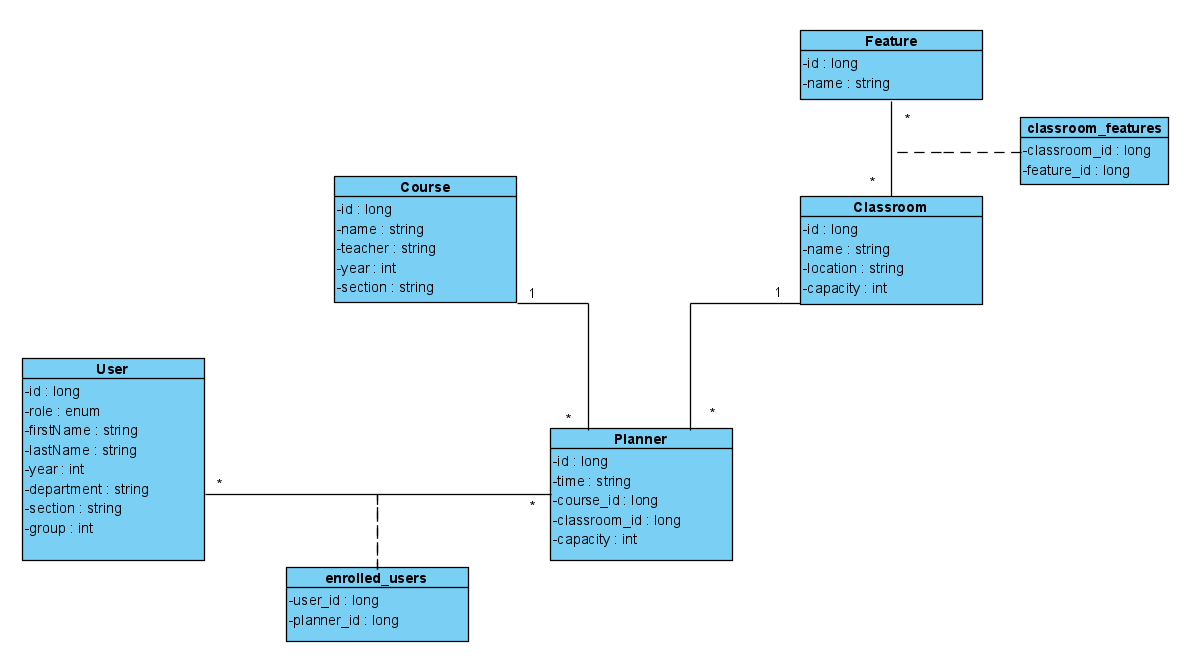
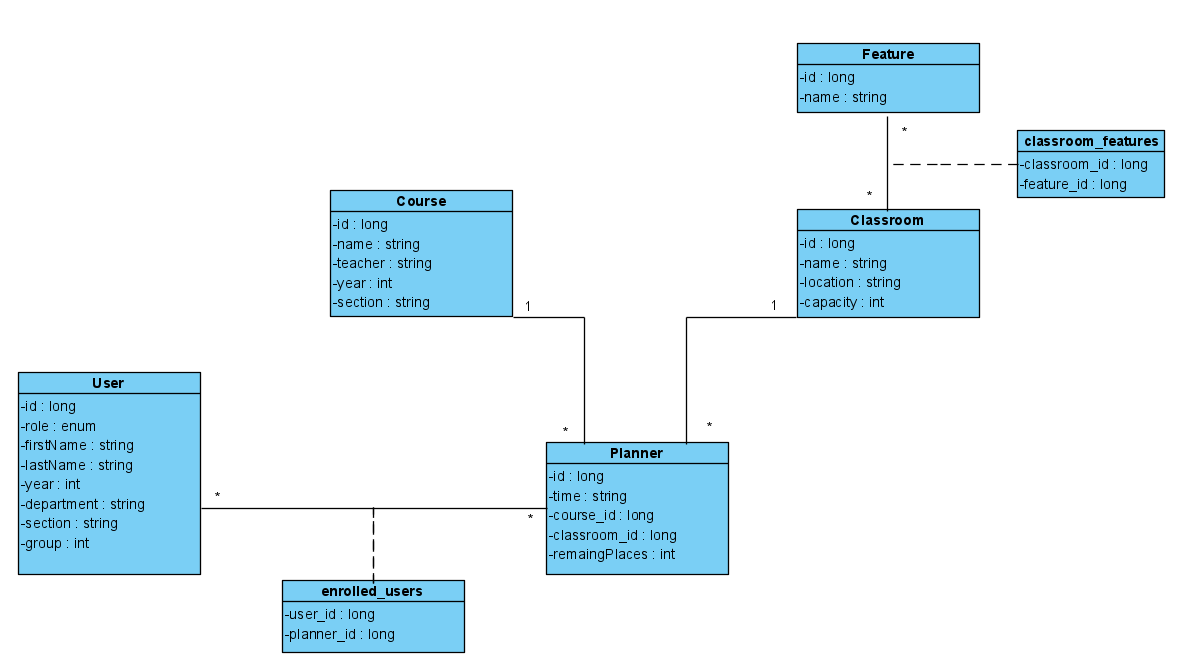
changed-planner-field

Changed region(s): [[0.0, 0.2406, 0.6401, 0.9925], [0.6706, 0.0301, 1.0, 0.3008], [0.5792, 0.2707, 0.8535, 0.4812]]

diff --git a/src/main/java/com/example/checkin/planner/PlannerDTO.java b/src/main/java/com/example/checkin/planner/PlannerDTO.java
@@ -14,18 +14,18 @@ public class PlannerDTO {
     private Long courseId;
     private Long classroomId;
     private Set<Long> enrolledUsers = new HashSet<>();
-    private Integer capacity;
+    private Integer remainingPlaces;
 
     public PlannerDTO() {
     }
 
-    public PlannerDTO(Long id, String time, Long courseId, Long classroomId, Set<Long> enrolledUsers, Integer capacity) {
+    public PlannerDTO(Long id, String time, Long courseId, Long classroomId, Set<Long> enrolledUsers, Integer remainingPlaces) {
         this.id = id;
         this.time = time;
         this.courseId = courseId;
         this.classroomId = classroomId;
         this.enrolledUsers = enrolledUsers;
-        this.capacity = capacity;
+        this.remainingPlaces = remainingPlaces;
     }
 
     public Long getId() {
@@ -68,12 +68,12 @@ public class PlannerDTO {
         this.enrolledUsers = enrolledUsers;
     }
 
-    public Integer getCapacity() {
-        return capacity;
+    public Integer getRemainingPlaces() {
+        return remainingPlaces;
     }
 
-    public void setCapacity(Integer capacity) {
-        this.capacity = capacity;
+    public void setRemainingPlaces(Integer remainingPlaces) {
+        this.remainingPlaces = remainingPlaces;
     }
 
     @Override
@@ -84,7 +84,7 @@ public class PlannerDTO {
                 ", courseId=" + courseId +
                 ", classroomId=" + classroomId +
                 ", enrolledUsers=" + enrolledUsers +
-                ", capacity=" + capacity +
+                ", remainingPlaces=" + remainingPlaces +
                 '}';
     }
 }

diff --git a/src/main/java/com/example/checkin/planner/PlannerService.java b/src/main/java/com/example/checkin/planner/PlannerService.java
@@ -38,10 +38,12 @@ public class PlannerService {
                 () -> new IllegalStateException("User with id: " + userId + " not found!")
         );
         if ((user.getRole().equals(UserRole.STUDENT) || user.getRole().equals(UserRole.TEACHER) &&
-                planner.getCapacity()>0)){
-            planner.assignUser(user);
-            planner.setCapacity(planner.getCapacity()-1);
-            plannerRepository.save(planner);
+                planner.getRemainingPlaces()>0)){
+            if (!(planner.getEnrolledUsers().contains(user))){
+                planner.assignUser(user);
+                planner.setRemainingPlaces(planner.getRemainingPlaces()-1);
+                plannerRepository.save(planner);
+            }
         }
         else throw new IllegalStateException("Only students and teachers are allowed to enroll");
     }
@@ -53,7 +55,7 @@ public class PlannerService {
         plannerDto.setCourseId(planner.getCourse().getId());
         plannerDto.setClassroomId(planner.getClassroom().getId());
         plannerDto.setEnrolledUsers(getUserIds(planner.getEnrolledUsers()));
-        plannerDto.setCapacity(planner.getCapacity());
+        plannerDto.setRemainingPlaces(planner.getRemainingPlaces());
         return plannerDto;
     }
 

diff --git a/src/main/java/com/example/checkin/planner/Planner.java b/src/main/java/com/example/checkin/planner/Planner.java
@@ -39,7 +39,7 @@ public class Planner {
     )
     private Set<User> enrolledUsers = new HashSet<>();
 
-    private Integer capacity;
+    private Integer remainingPlaces;
 
     public Planner() {
     }
@@ -48,7 +48,7 @@ public class Planner {
         this.time = time;
         this.course = course;
         this.classroom = classroom;
-        this.capacity = classroom.getCapacity();
+        this.remainingPlaces = classroom.getCapacity();
     }
 
     public Long getId() {
@@ -99,10 +99,12 @@ public class Planner {
         return enrolledUsers;
     }
 
-    public Integer getCapacity() { return capacity; }
+    public Integer getRemainingPlaces() {
+        return remainingPlaces;
+    }
 
-    public void setCapacity(Integer capacity) {
-        this.capacity = capacity;
+    public void setRemainingPlaces(Integer remainingPlaces) {
+        this.remainingPlaces = remainingPlaces;
     }
 
     public void setEnrolledUsers(Set<User> enrolledUsers) {
